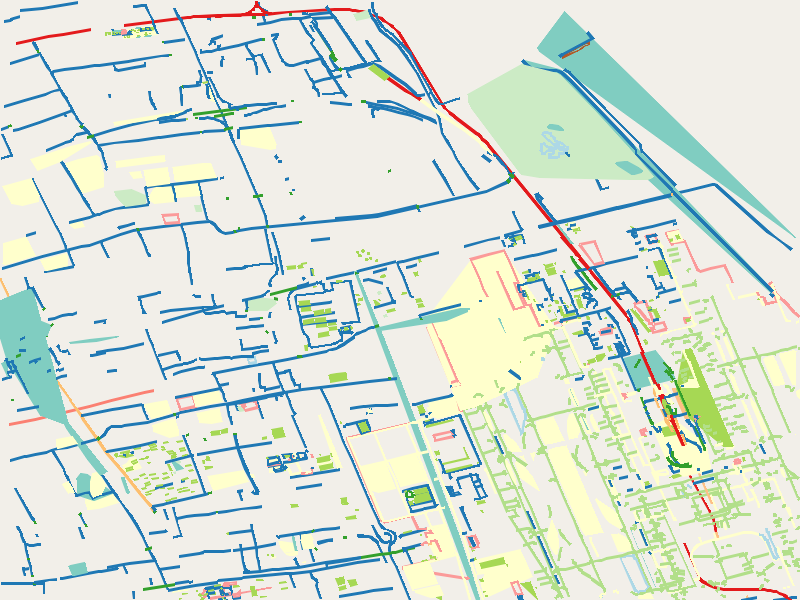
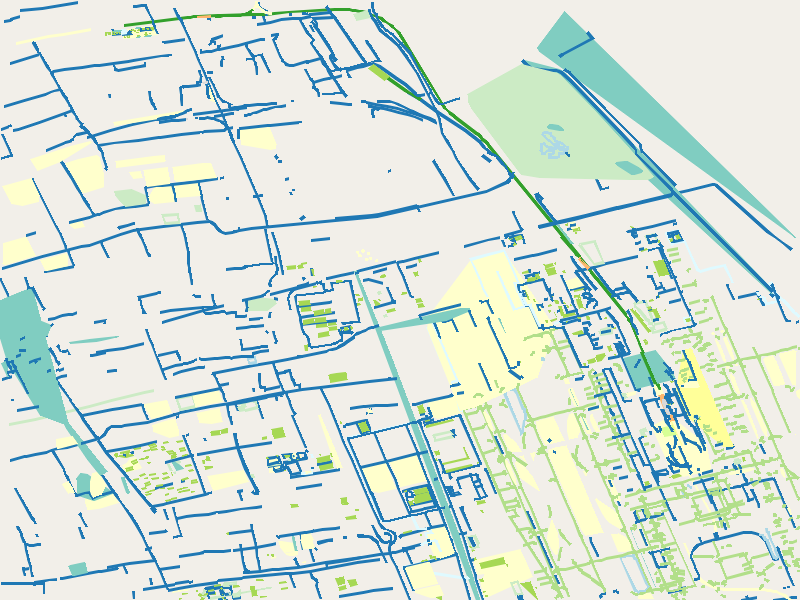
Improved render coloring, added refresh enabling checkbox

diff --git a/app/view/map_interface.py b/app/view/map_interface.py
@@ -122,6 +122,7 @@ class MapInterface(QWidget):
         self.ridingCheckBox = CheckBox('Riding', self.lowerWidget)
         self.drivingCheckBox = CheckBox('Driving', self.lowerWidget)
         self.pubTransportCheckBox = CheckBox('Public Transport', self.lowerWidget)
+        self.refreshCheckBox = CheckBox('Refresh Custom Layers (1s interval)', self.lowerWidget)
 
         self.pedestrianCheckBox.setChecked(self.pedestrain_enabled)
         self.ridingCheckBox.setChecked(self.riding_enabled)
@@ -132,11 +133,13 @@ class MapInterface(QWidget):
         self.ridingCheckBox.stateChanged.connect(self.on_checkbox_state_changed)
         self.drivingCheckBox.stateChanged.connect(self.on_checkbox_state_changed)
         self.pubTransportCheckBox.stateChanged.connect(self.on_checkbox_state_changed)
+        self.refreshCheckBox.stateChanged.connect(self.on_refresh_checkbox_state_changed)  # Connect the signal
 
         self.middleLayout.addWidget(self.pedestrianCheckBox, 0, 0)
         self.middleLayout.addWidget(self.ridingCheckBox, 0, 1)
         self.middleLayout.addWidget(self.drivingCheckBox, 1, 0)
         self.middleLayout.addWidget(self.pubTransportCheckBox, 1, 1)
+        self.middleLayout.addWidget(self.refreshCheckBox, 2, 0, 1, 2)
 
         # Right Layout for Buttons
         self.rightLayout = QVBoxLayout()
@@ -435,6 +438,30 @@ class MapInterface(QWidget):
                 }
             });
 
+            // Define variables to store interval IDs
+            var refreshIntervalCustomLayer = null;
+            var refreshIntervalCustomSparseLayer = null;
+
+            function startRefreshing() {
+                if (!refreshIntervalCustomLayer) {
+                    refreshIntervalCustomLayer = setInterval(refreshCustomLayerGroup, 1000); // Refresh every second
+                }
+                if (!refreshIntervalCustomSparseLayer) {
+                    refreshIntervalCustomSparseLayer = setInterval(refreshCustomSparseLayerGroup, 1000); // Refresh every second
+                }
+            }
+
+            function stopRefreshing() {
+                if (refreshIntervalCustomLayer) {
+                    clearInterval(refreshIntervalCustomLayer);
+                    refreshIntervalCustomLayer = null;
+                }
+                if (refreshIntervalCustomSparseLayer) {
+                    clearInterval(refreshIntervalCustomSparseLayer);
+                    refreshIntervalCustomSparseLayer = null;
+                }
+            }
+
             function refreshCustomLayerGroup() {
                 window.customLayerGroup.eachLayer(function (layer) {
                     Object.values(layer._tiles).forEach(function(tile) {
@@ -448,8 +475,18 @@ class MapInterface(QWidget):
                 });
             }
 
-            setInterval(refreshCustomLayerGroup, 1000); // Refresh every second
-
+            function refreshCustomSparseLayerGroup() {
+                window.customLayerGroup_sparse.eachLayer(function (layer) {
+                    Object.values(layer._tiles).forEach(function(tile) {
+                        if (true) {
+                            var img = tile.el;
+                            var src = img.src;
+                            img.src = ''; // Clear the src to force reload
+                            img.src = src; // Set the src back to reload the tile
+                        }
+                    });
+                });
+            }
         """)
 
         
@@ -611,22 +648,13 @@ class MapInterface(QWidget):
                 }}
             }});
 
-            function refreshCustomLayerGroup() {{
-                window.customLayerGroup.eachLayer(function (layer) {{
-                    Object.values(layer._tiles).forEach(function(tile) {{
-                        if (true) {{
-                            var img = tile.el;
-                            var src = img.src;
-                            img.src = ''; // Clear the src to force reload
-                            img.src = src; // Set the src back to reload the tile
-                        }}
-                    }});
-                }});
-            }}
-
-            setInterval(refreshCustomLayerGroup, 1000); // Refresh every second
-
         """)
+
+    def on_refresh_checkbox_state_changed(self, state):
+        if state == Qt.Checked:
+            self.browser.page().runJavaScript("startRefreshing();")
+        else:
+            self.browser.page().runJavaScript("stopRefreshing();")
 
     @pyqtSlot()
     def clearSelectedNodes(self):

diff --git a/TODO.md b/TODO.md
@@ -1,31 +1,5 @@
 # TODO
-<!-- 1. add search function -->
-<!-- 2. add name tag to nodes -->
-<!-- 3. add multiple modes(walking, riding, driving, public transport) in the form of tickbox ---- self.get_whitelist() -->
-    <!-- <tag k="highway" v="pedestrian"/> -->
 
-<!-- 4. resolve the issue of path not found -->
-5. allow user to select their map file
-<!-- 6. change finding_node to be async -->
-7. resolve the name overlapping issue
-<!-- 8. add more path-finding algorithms -->
-9. use satellite image as background
-10. add routes to favorite
-11. calculate the estimated time duration for each means of transportation
-12. support adding middle points
-13. use realtime GPS location as start point, and dynamically calculate shortest path
-<!-- 14. let the backend run all the time -->
-15. Implement grid rendering
-<!-- 16. time the path finding process -->
-17. make the reset button able to stop calculation process
-<!-- 18. refine name display -->
-
-
-19. 数据库
-20. leaflet
-21. 控制单位面积点的数量以渲染（经纬度小数点后只保留几位，合并起来）
-22. import geojson
-
-
-
-23. 地图秒级刷新
+<!-- 1. renderer color optimization -->
+2. refresh button
+3. backend: speed parameters
